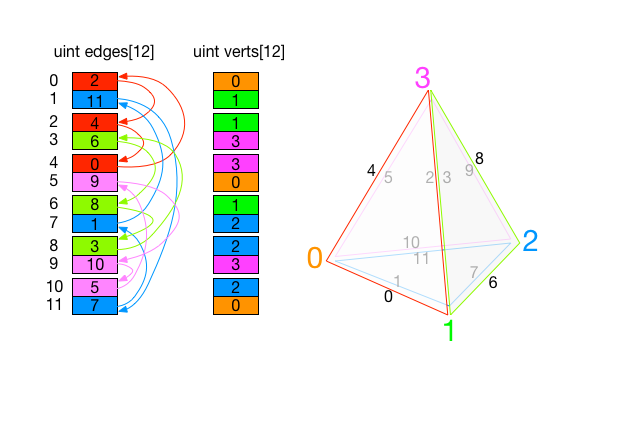
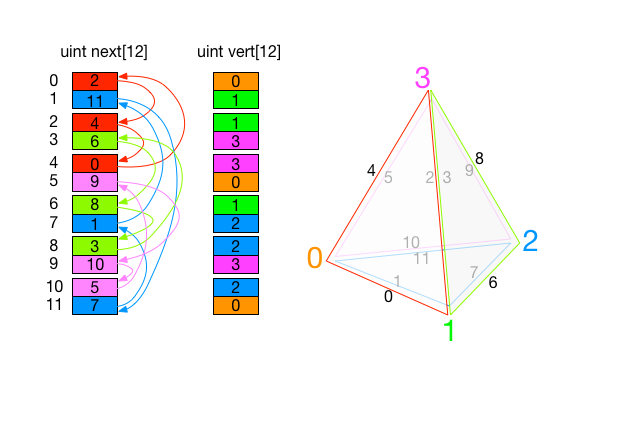
change array names in figure

Changed region(s): [[0.3079, 0.092, 0.4619, 0.1533], [0.0924, 0.092, 0.2464, 0.1533]]

diff --git a/README.md b/README.md
@@ -5,20 +5,19 @@
 
 ## The half-edge data structure in libstl
 
-Libstl does not declare a struct to represent edges, which is a departure from common wisdom.
-We find that it is best to think of the half-edge as an integer value, and to declare and access
-attributes by indexing arrays with the half-edges. This has the added benefit of making the
-library open ended: an application can easily add any attributes it needs by indexing its own
-arrays by the half-edges.
+Libstl does not declare a `struct` to represent edges. Instead, a half-edge is an immutable unsigned integer.
+To declare and access half-edge attributes, the half-edges are used as array indices. This makes the half-edge
+open-ended in a way, applications can easily add any attributes they need by just declaring and accessing their
+own arrays with the half-edges.
 
 The half-edges are stored in groups of two, so that accessing the opposing half-edge is
 a simple `edge^1` expression, ie. flipping the least significant bit.
 
 ![Half-Edge data structure](https://raw.githubusercontent.com/aki5/libstl/master/half-edges.png)
 
-The figure above illustrates this principle. The `edges` array contains face loops of
-the half-edge data structure: at every index, this array contains the following half-edge. In
-a similar manner, the `verts` array has a vertex index for the source of each half-edge.
+The figure above illustrates this principle. The `next` array contains loops around the faces
+of the mesh. At every index, the `next` array contains the following half-edge. Likewise, the
+`vert` array contains a vertex identifier corresponding to the source of each half-edge.
 
 ## Libstl API
 
